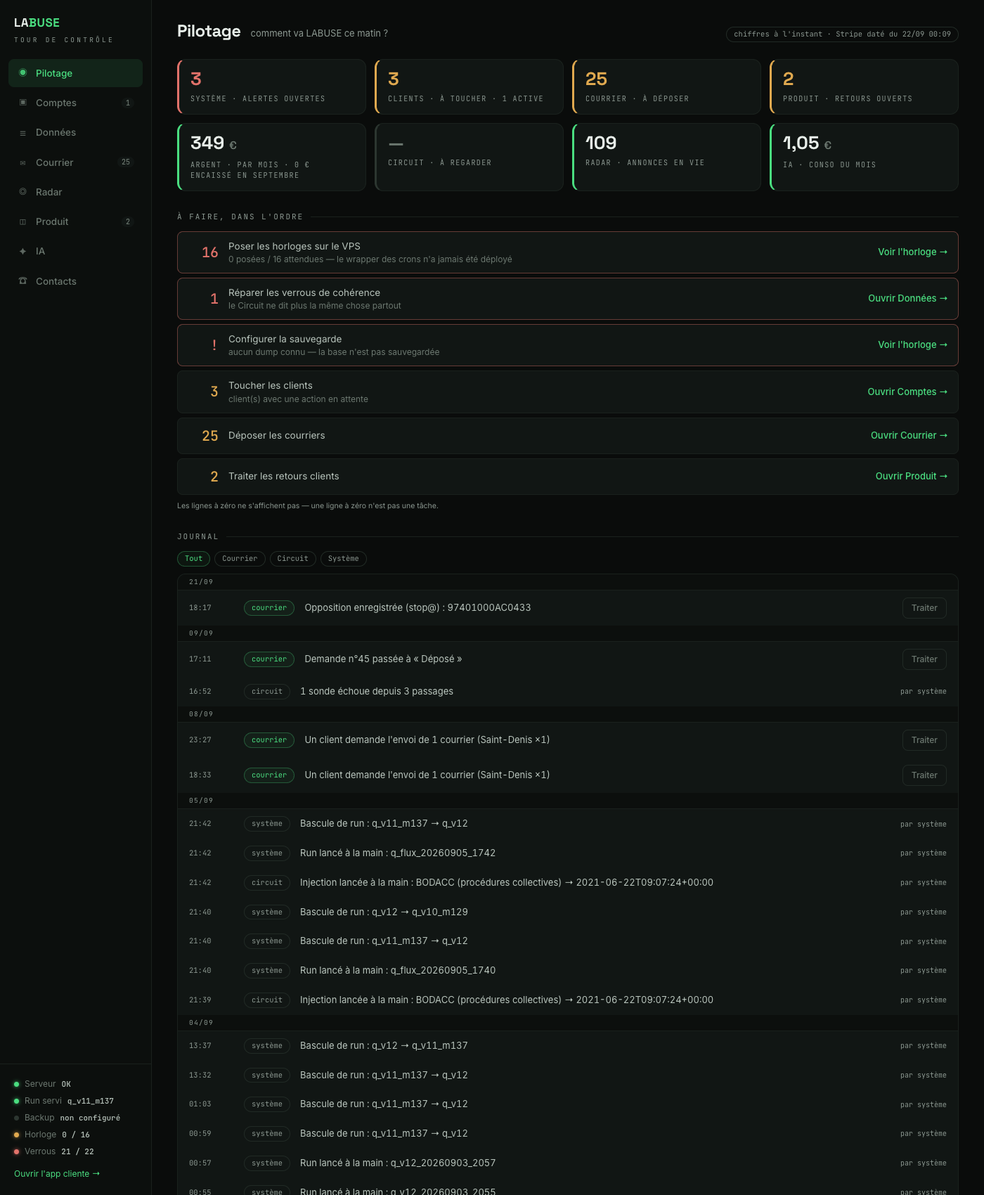
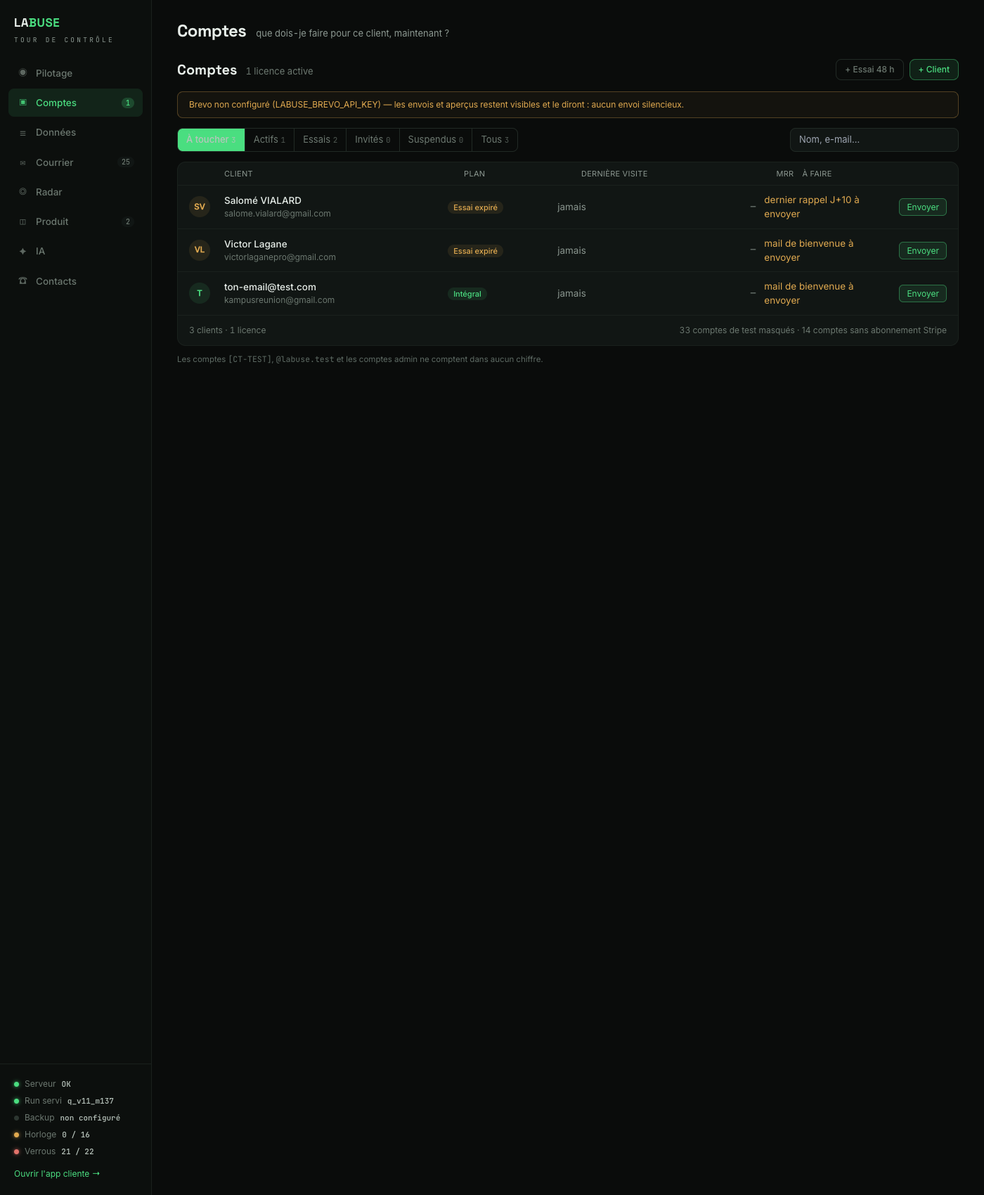
DASHBOARD-4 Lot 5 — Comptes : deux entrées, page créer, 5 statuts, essai, fiche
K1 : deux entrées en haut à droite — « Ouvrir un essai 48 h » · « Créer un client »
— de VRAIES pages (plus d'accordéon, plus de lien brut affiché).
K2 : « Créer un client » = e-mail + prénom + nom · « Créer et envoyer l'invitation »
(principal, envoi Brevo souscription=5 / essai=4 par la file — dry-run en local,
mail_log) · « créer sans envoyer » (lien). LES DEUX arrivent sur la fiche du client.
K3 : cinq statuts (Invité · Invitation envoyée · Actif · Suspendu · Expiré) dans la
colonne Statut ; « payant / essai » est une COLONNE À PART lue de Stripe (carte
refusée incluse). Segments sur une ligne ; « À toucher » (défaut) = estAToucher
(invitation sans réponse > 7 j · essai < 6 h · carte refusée) — MÊME fonction que la
liste « À faire » du Pilotage (une seule définition, AdminView la lit aussi).
K4 : essai 48 h — même chemin, expire seul, décompte sur la fiche, bouton
« Transformer en client » (convertir).
K5 : fiche client = fil d'Ariane (Comptes › nom), quatre onglets (Aperçu · Activité ·
Facturation · IA), gestes EN HAUT À DROITE (Renvoyer l'invitation · Suspendre /
Rétablir · Transformer), faits + phrase CALCULÉE sous les faits (« paie depuis N
jours, actif … » / « n'est jamais entré dans l'app »). Tous les gestes partent d'ici.
K6 : comptes de test masqués partout (33 masqués, hors de tout chiffre) ;
ton-email@test.com est EXCLU du service /admin/licences (jamais servi, jamais
touché) — signalé ici et dans le rapport ; garde front défensive si jamais servi.
[…]

diff --git a/frontend/src/components/admin/Licences.tsx b/frontend/src/components/admin/Licences.tsx
@@ -8,8 +8,8 @@ import { useMutation, useQuery, useQueryClient } from '@tanstack/react-query'
 import { useMemo, useState } from 'react'
 import {
   getAdminLicences, getAdminMailApercu, getAdminMails, getOffres, postAdminLicenceCreer,
-  postAdminLicenceCreerEssai, postAdminLicenceMail, postAdminRetablir, postAdminSuspendre,
-  postAdminDeconnecter, type AdminLicence, type AdminLicences, type MailLigne,
+  postAdminLicenceCreerEssai, postAdminLicenceConvertir, postAdminLicenceMail, postAdminRetablir,
+  postAdminSuspendre, postAdminDeconnecter, type AdminLicence, type AdminLicences, type MailLigne,
 } from '../../lib/api'
 import { ActBtn } from './AdminView'
 
@@ -114,15 +114,76 @@ function verbe(act: Action | null): string {
   return 'Envoyer'
 }
 
-// chip de plan / état servi dans la ligne.
-function PlanChip({ l }: { l: AdminLicence }) {
-  const p = pastille(l)
-  if (p === 'carte') return <span className="rounded-full bg-coral/10 px-2 py-0.5 text-[11px] font-medium text-coral">Carte refusée</span>
-  if (p === 'essai') return <span className="rounded-full bg-amber/10 px-2 py-0.5 text-[11px] font-medium text-amber">Essai{essaiHeuresRestantes(l) != null && essaiHeuresRestantes(l)! <= 0 ? ' expiré' : ''}</span>
-  if (p === 'invite') return <span className="rounded-full bg-white/5 px-2 py-0.5 text-[11px] font-medium text-txt-dim">Invité</span>
-  if (p === 'susp') return <span className="rounded-full bg-coral/10 px-2 py-0.5 text-[11px] font-medium text-coral">Suspendu</span>
-  return <span className="rounded-full bg-mint/10 px-2 py-0.5 text-[11px] font-medium text-mint">Intégral</span>
+// ── DASHBOARD-4 (K3) — CINQ statuts (Invité · Invitation envoyée · Actif · Suspendu · Expiré) ;
+//    « payant / essai » est une COLONNE À PART, lue de Stripe (jamais mélangée au statut). ──
+type Statut5 = 'invite' | 'invitation_envoyee' | 'actif' | 'suspendu' | 'expire'
+function statut5(l: AdminLicence): Statut5 {
+  const h = essaiHeuresRestantes(l)
+  const essaiExpire = l.essai_expire_at != null && h != null && h <= 0
+  if (l.statut === 'suspendu') return essaiExpire ? 'expire' : 'suspendu'
+  if (essaiExpire) return 'expire'
+  if (l.statut === 'invite') {
+    const invitationEnvoyee = l.mails['souscription']?.statut === 'envoye' || l.mails['onboarding1']?.statut === 'envoye'
+    return invitationEnvoyee ? 'invitation_envoyee' : 'invite'
+  }
+  return 'actif'
 }
+const STATUT5_LABEL: Record<Statut5, string> = {
+  invite: 'Invité', invitation_envoyee: 'Invitation envoyée', actif: 'Actif', suspendu: 'Suspendu', expire: 'Expiré',
+}
+const STATUT5_DOT: Record<Statut5, string> = {
+  invite: 'bg-txt-dim', invitation_envoyee: 'bg-amber', actif: 'bg-mint', suspendu: 'bg-coral', expire: 'bg-coral',
+}
+function StatutChip({ l }: { l: AdminLicence }) {
+  const s = statut5(l)
+  return <span className="inline-flex items-center gap-1.5 text-[12.5px] text-txt"><span className={`h-[8px] w-[8px] rounded-full ${STATUT5_DOT[s]}`} />{STATUT5_LABEL[s]}</span>
+}
+// « payant / essai » — colonne à part, lue de Stripe (carte refusée = état de paiement, pas un statut).
+function abonnement(l: AdminLicence): { label: string; cls: string } {
+  if (carteRefusee(l)) return { label: 'Carte refusée', cls: 'text-coral' }
+  if (l.stripe?.statut === 'active' || l.stripe?.statut === 'trialing') return { label: 'Payant', cls: 'text-mint' }
+  const h = essaiHeuresRestantes(l)
+  if (l.essai_expire_at != null && h != null && h > 0) return { label: `Essai · ${h} h`, cls: 'text-amber' }
+  if (l.essai_expire_at != null) return { label: 'Essai expiré', cls: 'text-coral' }
+  return { label: '—', cls: 'text-txt-dim' }
+}
+
+// DASHBOARD-4 (K3) — « À toucher » (segment par défaut ET jauge Pilotage, une seule fonction) :
+// invitation sans réponse > 7 j · essai qui se termine (< 6 h) · carte refusée.
+export function estAToucher(l: AdminLicence): boolean {
+  if (l.est_test) return false
+  if (carteRefusee(l)) return true
+  const abonne = l.stripe?.statut === 'active' || l.stripe?.statut === 'trialing'
+  const h = essaiHeuresRestantes(l)
+  if (l.essai_expire_at != null && !abonne && h != null && h > 0 && h < 6) return true   // essai < 6 h
+  if (l.statut === 'invite' && !l.kpi.derniere_connexion && l.created_at) {              // invitation sans réponse > 7 j
+    const ageJ = (Date.now() - new Date(l.created_at).getTime()) / 86_400_000
+    if (ageJ > 7) return true
+  }
+  return false
+}
+
+// DASHBOARD-4 (K5) — phrase CALCULÉE sous les faits (« paie depuis 7 jours, connecté 4 fois » /
+// « n'est jamais entré dans l'app »).
+function phraseCalculee(l: AdminLicence): string {
+  if (!l.kpi.derniere_connexion) return "Ce client n'est jamais entré dans l'app."
+  const parts: string[] = []
+  const abonne = l.stripe?.statut === 'active' || l.stripe?.statut === 'trialing'
+  if (abonne && l.stripe?.depuis) {
+    const j = Math.max(0, Math.floor((Date.now() / 1000 - l.stripe.depuis) / 86_400))
+    parts.push(`paie depuis ${j} jour${j > 1 ? 's' : ''}`)
+  } else if (l.essai_expire_at) {
+    const h = essaiHeuresRestantes(l)
+    parts.push(h != null && h > 0 ? `en essai (encore ${h} h)` : 'essai terminé')
+  }
+  const min = l.kpi.usage_7j_min
+  if (min > 0) parts.push(`actif ${fmtDuree(min)} sur 7 jours`)
+  else parts.push('connecté au moins une fois')
+  return parts.length ? parts.join(', ').replace(/^./, (c) => c.toUpperCase()) + '.' : 'Compte actif.'
+}
+
+// DASHBOARD-4 (K3) — l'ancien PlanChip (plan/état mélangés) est remplacé par StatutChip (5 statuts)
+// + la colonne Abonnement séparée (abonnement()), lue de Stripe.
 
 // ── panneau APERÇU : template Brevo rendu avec les variables du compte, ou raison honnête ──
 function ApercuOverlay({ compteId, mk, onClose }: { compteId: number; mk: string; onClose: () => void }) {
@@ -155,39 +216,61 @@ function ApercuOverlay({ compteId, mk, onClose }: { compteId: number; mk: string
   )
 }
 
-// ── barre de création (Créer NE POSTE AUCUN MAIL) — repliée derrière « + Client » / « + Essai 48 h » ──
-function NewBar({ mode, onDone }: { mode: 'client' | 'essai'; onDone: () => void }) {
+// ── DASHBOARD-4 (K1/K2) — VRAIE PAGE de création (plus d'accordéon, plus de lien brut affiché).
+//    E-mail + prénom + nom. Deux gestes : « Créer et envoyer l'invitation » (principal, envoi Brevo
+//    4/5 par la file — dry-run en local, mail_log) · « créer sans envoyer » (lien). LES DEUX arrivent
+//    sur la FICHE du client créé (onCree). ──
+function CreerPage({ mode, onBack, onCree }: {
+  mode: 'client' | 'essai'; onBack: () => void; onCree: (compteId: number) => void
+}) {
   const qc = useQueryClient()
   const [email, setEmail] = useState('')
+  const [prenom, setPrenom] = useState('')
   const [nom, setNom] = useState('')
-  const [lien, setLien] = useState<string | null>(null)
   const [err, setErr] = useState<string | null>(null)
-  const ok = (r: { lien: string }) => { setLien(r.lien); setErr(null); setEmail(''); setNom(''); qc.invalidateQueries({ queryKey: ['admin-licences'] }) }
-  const ko = (e: unknown) => setErr(e instanceof Error ? e.message : 'Création impossible.')
-  const creer = useMutation({ mutationFn: () => postAdminLicenceCreer({ email: email.trim(), nom: nom.trim() || undefined }), onSuccess: ok, onError: ko })
-  const essai = useMutation({ mutationFn: () => postAdminLicenceCreerEssai({ email: email.trim(), nom: nom.trim() || undefined, heures: 48 }), onSuccess: ok, onError: ko })
-  const run = () => (mode === 'client' ? creer : essai).mutate()
-  const inp = 'rounded-md border border-line-2 bg-bg px-2.5 py-2 text-[13px] text-txt outline-none focus:border-mint'
+  const [busy, setBusy] = useState(false)
+  // le template d'invitation : souscription (Brevo 5) pour un client, essai (Brevo 4) pour un essai.
+  const mailKey = mode === 'client' ? 'souscription' : 'essai'
+  const nomComplet = [prenom.trim(), nom.trim()].filter(Boolean).join(' ') || undefined
+  const lancer = async (envoyer: boolean) => {
+    setBusy(true); setErr(null)
+    try {
+      const r = mode === 'client'
+        ? await postAdminLicenceCreer({ email: email.trim(), nom: nomComplet })
+        : await postAdminLicenceCreerEssai({ email: email.trim(), nom: nomComplet, heures: 48 })
+      if (envoyer) { try { await postAdminLicenceMail(r.compte_id, mailKey) } catch { /* la file dira l'échec sur la fiche */ } }
+      qc.invalidateQueries({ queryKey: ['admin-licences'] })
+      onCree(r.compte_id)   // K2 — les deux gestes arrivent sur la fiche
+    } catch (e) {
+      setErr(e instanceof Error ? e.message : 'Création impossible.')
+    } finally { setBusy(false) }
+  }
+  const inp = 'w-full rounded-md border border-line-2 bg-bg px-3 py-2.5 text-[13.5px] text-txt outline-none focus:border-mint'
+  const titre = mode === 'client' ? 'Créer un client' : 'Ouvrir un essai 48 h'
   return (
-    <div className="mb-4 rounded-xl border border-line bg-surface-2 px-3 py-2.5">
-      <div className="flex flex-wrap items-center gap-2">
-        <span className="text-[12.5px] text-txt-dim">{mode === 'client' ? 'Nouveau client :' : 'Nouvel essai 48 h :'}</span>
-        <input autoFocus value={email} onChange={(e) => setEmail(e.target.value)} placeholder="email@client.re" className={`${inp} w-56`} />
-        <input value={nom} onChange={(e) => setNom(e.target.value)} placeholder="Nom (option)" className={`${inp} w-40`} />
-        <ActBtn onClick={run} disabled={!email.includes('@') || creer.isPending || essai.isPending}>
-          {mode === 'client' ? "Créer & préparer l'invitation →" : "Créer l'essai 48 h →"}
-        </ActBtn>
-        <ActBtn tone="ghost" onClick={onDone}>Fermer</ActBtn>
-        <span className="text-[11.5px] text-txt-off">l'invitation ne part jamais seule — tu l'envoies depuis la fiche</span>
-      </div>
-      {lien && (
-        <div className="mt-2 flex items-center gap-2">
-          <span className="text-[11px] text-mint">Compte créé.</span>
-          <code className="max-w-[440px] truncate rounded bg-surface-1 px-2 py-1 font-mono text-[10.5px] text-mint">{lien}</code>
-          <ActBtn tone="ghost" onClick={() => navigator.clipboard?.writeText(lien)}>Copier le lien</ActBtn>
+    <div>
+      <button onClick={onBack} className="mb-3 text-[12.5px] text-txt-mut hover:text-txt">← Comptes</button>
+      <h1 className="mb-4 font-display text-xl font-semibold text-txt-hi">{titre}</h1>
+      <div className="max-w-[460px] rounded-xl border border-line bg-surface-2 p-6">
+        <label className="mb-1.5 block text-[12px] text-txt-dim">E-mail</label>
+        <input autoFocus type="email" value={email} onChange={(e) => setEmail(e.target.value)} placeholder="prenom@societe.re" className={inp} />
+        <label className="mb-1.5 mt-3.5 block text-[12px] text-txt-dim">Prénom</label>
+        <input value={prenom} onChange={(e) => setPrenom(e.target.value)} className={inp} />
+        <label className="mb-1.5 mt-3.5 block text-[12px] text-txt-dim">Nom</label>
+        <input value={nom} onChange={(e) => setNom(e.target.value)} className={inp} />
+        <div className="mt-5 flex items-center gap-4">
+          <ActBtn onClick={() => lancer(true)} disabled={!email.includes('@') || busy}>
+            {mode === 'client' ? "Créer et envoyer l'invitation" : "Créer l'essai et envoyer l'invitation"}
+          </ActBtn>
+          <button onClick={() => lancer(false)} disabled={!email.includes('@') || busy}
+            className="text-[13px] text-txt-mut underline underline-offset-2 hover:text-txt disabled:opacity-40">créer sans envoyer</button>
         </div>
-      )}
-      {err && <div className="mt-1 text-[11px] text-coral">{err}</div>}
+        {err && <div className="mt-3 text-[12px] text-coral">{err}</div>}
+        <div className="mt-4 text-[11px] text-txt-off">
+          En local (Brevo non configuré), l'envoi est un <b>dry-run</b> : l'invitation entre dans la file
+          (mail_log) sans partir — visible sur la fiche, onglet Activité.
+        </div>
+      </div>
     </div>
   )
 }
@@ -260,6 +343,8 @@ function FichePage({ l, libelles, stripeConfigure, onBack }: {
   })
   const susp = useMutation({ mutationFn: () => postAdminSuspendre(l.id), onSuccess: refresh })
   const retab = useMutation({ mutationFn: () => postAdminRetablir(l.id), onSuccess: refresh })
+  // DASHBOARD-4 (K4) — « Transformer en client » : lève l'essai, le compte paie par le parcours officiel.
+  const transformer = useMutation({ mutationFn: () => postAdminLicenceConvertir(l.id), onSuccess: (r) => { setMsg(r.detail); refresh() } })
   const deco = useMutation({
     mutationFn: () => postAdminDeconnecter(l.id),
     onSuccess: (r) => { setDecoMsg(`${r.sessions_fermees} session${r.sessions_fermees > 1 ? 's' : ''} fermée${r.sessions_fermees > 1 ? 's' : ''}`); refresh() },
@@ -277,19 +362,43 @@ function FichePage({ l, libelles, stripeConfigure, onBack }: {
   return (
     <div>
       {apercu && <ApercuOverlay compteId={l.id} mk={apercu} onClose={() => setApercu(null)} />}
-      <button onClick={onBack} className="mb-3 text-[12.5px] text-txt-mut hover:text-txt">← Comptes</button>
+      {/* DASHBOARD-4 (K5) — fil d'Ariane + gestes EN HAUT À DROITE (tous les gestes partent d'ici). */}
+      <div className="mb-2 text-[12.5px] text-txt-dim"><button onClick={onBack} className="hover:text-txt">Comptes</button> › {l.nom}</div>
       <div className="flex flex-wrap items-start justify-between gap-3">
         <div className="flex items-center gap-3">
           <span className={`grid h-10 w-10 place-items-center rounded-full text-[13px] font-semibold ${AV_CLS[pastille(l)]}`}>{initiales(l)}</span>
           <div>
             <h2 className="font-display text-lg font-semibold text-txt-hi">{l.nom}</h2>
-            <div className="text-[12.5px] text-txt-dim">{l.email} · créé le {fmtReu(l.created_at)}
-              {l.essai_expire_at && l.statut === 'actif' && <span className="ml-2 rounded-full bg-amber/10 px-2.5 py-0.5 text-[11px] font-semibold text-amber">ESSAI — {h != null && h > 0 ? `expire dans ${h} h` : 'expiré'}</span>}
+            <div className="flex items-center gap-2 text-[12.5px] text-txt-dim"><StatutChip l={l} /> · créé le {fmtReu(l.created_at)}
+              {l.essai_expire_at && l.statut === 'actif' && <span className="rounded-full bg-amber/10 px-2.5 py-0.5 text-[11px] font-semibold text-amber">ESSAI — {h != null && h > 0 ? `expire dans ${h} h` : 'expiré'}</span>}
             </div>
           </div>
         </div>
-        <PlanChip l={l} />
+        <div className="flex shrink-0 flex-wrap items-center gap-2">
+          {/* Renvoyer l'invitation (souscription) — utile tant que le client n'est pas entré. */}
+          {!l.kpi.derniere_connexion && (
+            <ActBtn tone="ghost" onClick={() => mail.mutate('souscription')} disabled={mail.isPending}>Renvoyer l'invitation</ActBtn>
+          )}
+          {/* Transformer en client (K4) — pour un essai en cours. */}
+          {l.essai_expire_at != null && l.statut === 'actif' && (
+            <ActBtn onClick={() => transformer.mutate()} disabled={transformer.isPending}>Transformer en client</ActBtn>
+          )}
+          {suspendu
+            ? <ActBtn onClick={() => retab.mutate()} disabled={retab.isPending}>Rétablir</ActBtn>
+            : <button onClick={suspendre} disabled={susp.isPending} className="rounded-lg border border-coral/40 px-3 py-1.5 text-xs font-medium text-coral disabled:opacity-40">Suspendre</button>}
+        </div>
       </div>
+
+      {/* DASHBOARD-4 (K5) — faits + phrase CALCULÉE sous les faits. */}
+      <div className="mt-3 grid gap-4 rounded-xl border border-line bg-surface-1 px-4 py-3 sm:grid-cols-[1fr_auto]">
+        <dl className="grid grid-cols-2 gap-x-6 gap-y-1.5 text-[12.5px]">
+          <div><dt className="text-txt-dim">E-mail</dt><dd className="font-mono text-txt">{l.email}</dd></div>
+          <div><dt className="text-txt-dim">Abonnement</dt><dd className={abonnement(l).cls}>{abonnement(l).label}</dd></div>
+          <div><dt className="text-txt-dim">Dernière connexion</dt><dd className="text-txt">{fmtReu(l.kpi.derniere_connexion, true)}</dd></div>
+          <div><dt className="text-txt-dim">Usage 7 j</dt><dd className="text-txt">{fmtDuree(l.kpi.usage_7j_min)}</dd></div>
+        </dl>
+      </div>
+      <p className="mt-2 border-t border-line pt-2 text-[13px] text-txt">{phraseCalculee(l)}</p>
 
       <div className="mt-4 mb-4 flex gap-1 border-b border-line">
         {TABS.map(([k, label]) => (
@@ -336,22 +445,10 @@ function FichePage({ l, libelles, stripeConfigure, onBack }: {
             when={abonne ? 'actif' : (stripeConfigure ? 'à souscrire' : 'Stripe non configuré')}
             mk={abonne ? undefined : 'souscription'} onApercu={setApercu} onSend={mail.mutate} sending={mail.isPending} />
 
-          <div className="mt-5 grid grid-cols-2 gap-2">
-            <div className="rounded-lg border border-line bg-surface-1 px-3 py-2">
-              <div className="font-display text-base font-bold text-txt-hi">{fmtDuree(l.kpi.usage_7j_min)}</div>
-              <div className="text-[10.5px] text-txt-dim">usage sur 7 j</div>
-            </div>
-            <div className="rounded-lg border border-line bg-surface-1 px-3 py-2">
-              <div className="font-display text-base font-bold text-txt-hi">{fmtReu(l.kpi.derniere_connexion, true)}</div>
-              <div className="text-[10.5px] text-txt-dim">dernière connexion</div>
-            </div>
-          </div>
-
+          {/* DASHBOARD-4 (K5) — suspension/transformation vivent EN HAUT À DROITE ; ici on garde le
+              rappel « manuelle » + la déconnexion à distance (geste rare, jamais dans le bandeau). */}
           <div className="mt-5 flex items-center justify-between gap-3 rounded-lg border border-line px-3 py-2.5 text-[12px] text-txt-dim">
-            <span>La suspension est toujours <b className="text-coral">manuelle</b> — jamais automatique sur un échec de carte.</span>
-            {suspendu
-              ? <ActBtn onClick={() => retab.mutate()} disabled={retab.isPending}>Rétablir l'accès</ActBtn>
-              : <button onClick={suspendre} disabled={susp.isPending} className="shrink-0 rounded-md border border-coral/40 px-2.5 py-1 text-[12px] text-coral disabled:opacity-40">Suspendre le compte</button>}
+            <span>La suspension est toujours <b className="text-coral">manuelle</b> — jamais automatique sur un échec de carte (le geste est en haut de la fiche).</span>
           </div>
           <div className="mt-2.5 flex items-center justify-between gap-3 rounded-lg border border-line px-3 py-2.5 text-[12px] text-txt-dim">
             <span>Déconnexion à distance — ferme toutes les sessions ouvertes du client (il pourra se reconnecter).{decoMsg && <b className="ml-2 text-mint">{decoMsg}</b>}</span>
@@ -446,9 +543,13 @@ export function LicencesSection() {
   const d: AdminLicences | undefined = q.data
 
   const clientes = useMemo(() => (d?.licences ?? []).filter((l) => !l.est_test), [d])
-  const aToucher = useMemo(() => clientes.filter((l) => prochaineAction(l) != null), [clientes])
+  // DASHBOARD-4 (K3) — « À toucher » = estAToucher (invitation sans réponse > 7 j · essai < 6 h · carte refusée).
+  const aToucher = useMemo(() => clientes.filter((l) => estAToucher(l)), [clientes])
 
   if (!d) return <div className="py-10 text-center text-xs text-txt-mut">Chargement…</div>
+
+  // DASHBOARD-4 (K1) — « Créer un client » / « Ouvrir un essai 48 h » sont de VRAIES pages.
+  if (creer) return <CreerPage mode={creer} onBack={() => setCreer(null)} onCree={(id) => { setCreer(null); setSel(id) }} />
   const prixIntegral = offres.data?.integral.eur_mois
   const libelles = d.mail_libelles ?? {}
   const masques = d.compteurs?.masques ?? d.licences.filter((l) => l.est_test).length
@@ -483,13 +584,12 @@ export function LicencesSection() {
           <h1 className="font-display text-xl font-semibold text-txt-hi">Comptes</h1>
           <span className="text-[13px] text-txt-mut">{actives} licence{actives > 1 ? 's' : ''} active{actives > 1 ? 's' : ''}{mrr > 0 && ` · ${mrr.toLocaleString('fr-FR')} € par mois`}</span>
         </div>
+        {/* DASHBOARD-4 (K1) — deux entrées en haut à droite, vraies pages (plus d'accordéon). */}
         <div className="flex gap-2">
-          <ActBtn tone="ghost" onClick={() => setCreer(creer === 'essai' ? null : 'essai')}>+ Essai 48 h</ActBtn>
-          <ActBtn onClick={() => setCreer(creer === 'client' ? null : 'client')}>+ Client</ActBtn>
+          <ActBtn tone="ghost" onClick={() => setCreer('essai')}>Ouvrir un essai 48 h</ActBtn>
+          <ActBtn onClick={() => setCreer('client')}>Créer un client</ActBtn>
         </div>
       </div>
-
-      {creer && <NewBar mode={creer} onDone={() => setCreer(null)} />}
 
       {!d.brevo.api && (
         <div className="mb-3.5 rounded-lg border border-amber/30 bg-amber/5 px-4 py-2.5 text-xs text-amber">
@@ -512,23 +612,25 @@ export function LicencesSection() {
       </div>
 
       <div className="overflow-hidden rounded-xl border border-line bg-surface-2">
-        <div className="grid grid-cols-[38px_1.7fr_0.8fr_0.9fr_0.6fr_1fr_auto] items-center gap-3 border-b border-line px-4 py-2 text-[11px] uppercase tracking-wide text-txt-dim">
-          <span /><span>Client</span><span>Plan</span><span>Dernière visite</span><span className="text-right">MRR</span><span>À faire</span><span />
+        {/* DASHBOARD-4 (K3) — colonne STATUT (5 statuts) + colonne ABONNEMENT séparée (payant/essai, Stripe). */}
+        <div className="grid grid-cols-[38px_1.7fr_1fr_0.9fr_0.9fr_1fr_auto] items-center gap-3 border-b border-line px-4 py-2 text-[11px] uppercase tracking-wide text-txt-dim">
+          <span /><span>Client</span><span>Statut</span><span>Dernière visite</span><span>Abonnement</span><span>À faire</span><span />
         </div>
         {lignes.map((l) => {
           const act = prochaineAction(l)
           const p = pastille(l)
+          const abo = abonnement(l)
           return (
             <button key={l.id} data-licence={l.id} onClick={() => setSel(l.id)}
-              className="grid w-full grid-cols-[38px_1.7fr_0.8fr_0.9fr_0.6fr_1fr_auto] items-center gap-3 border-b border-line px-4 py-2.5 text-left text-[13.5px] transition-colors duration-quick last:border-b-0 hover:bg-surface-1">
+              className="grid w-full grid-cols-[38px_1.7fr_1fr_0.9fr_0.9fr_1fr_auto] items-center gap-3 border-b border-line px-4 py-2.5 text-left text-[13.5px] transition-colors duration-quick last:border-b-0 hover:bg-surface-1">
               <span className={`grid h-[30px] w-[30px] place-items-center rounded-full text-[11.5px] font-semibold ${AV_CLS[p]}`}>{initiales(l)}</span>
               <span className="min-w-0">
                 <span className="block truncate font-medium text-txt-hi">{l.nom}</span>
-                <span className="block truncate text-[12px] text-txt-mut">{l.statut === 'invite' ? `invité — jamais activé` : l.email}</span>
+                <span className="block truncate text-[12px] text-txt-mut">{l.email}</span>
               </span>
-              <span><PlanChip l={l} /></span>
+              <span><StatutChip l={l} /></span>
               <span className={l.kpi.derniere_connexion ? 'text-txt-mut' : 'text-txt-dim'}>{fmtVisite(l.kpi.derniere_connexion)}</span>
-              <span className="text-right font-mono text-[12.5px] text-txt-mut">{l.stripe?.montant_eur_mois ? `${l.stripe.montant_eur_mois} €` : <span className="text-txt-dim">—</span>}</span>
+              <span className={`text-[12.5px] ${abo.cls}`}>{abo.label}</span>
               <span className={act ? (p === 'carte' ? 'text-coral' : 'text-amber') : 'text-txt-dim'}>{act ? act.court : '—'}</span>
               <span>{act ? <span className="rounded-md border border-mint/40 bg-mint/10 px-2.5 py-1 text-[12px] text-mint">{verbe(act)}</span> : ''}</span>
             </button>
@@ -546,6 +648,11 @@ export function LicencesSection() {
       </div>
       <div className="mt-2.5 text-[11.5px] text-txt-off">
         Les comptes <span className="font-mono">[CT-TEST]</span>, <span className="font-mono">@labuse.test</span> et les comptes admin ne comptent dans aucun chiffre.{prixIntegral ? '' : ''}
+        {/* DASHBOARD-4 (K6) — ton-email@test.com est masqué comme les autres tests ; on le SIGNALE
+            (compte réel de démo) et on n'y touche jamais. */}
+        {(d.licences ?? []).some((l) => (l.email ?? '').toLowerCase().includes('ton-email@test.com')) && (
+          <span className="ml-1 text-jaune"> <span className="font-mono">ton-email@test.com</span> est présent et masqué — ne pas y toucher (compte de démo signalé).</span>
+        )}
       </div>
     </>
   )

diff --git a/frontend/src/components/admin/AdminView.tsx b/frontend/src/components/admin/AdminView.tsx
@@ -7,7 +7,7 @@ import { useQuery, useQueryClient } from '@tanstack/react-query'
 import { useEffect, useState } from 'react'
 import { getAdminCircuit, getAdminLicences, getAdminPilotage, getMoi, postAdminDegeler, type AdminPilotage } from '../../lib/api'
 import { useApp } from '../../store/useApp'
-import { LicencesSection, prochaineAction } from './Licences'
+import { LicencesSection, estAToucher } from './Licences'
 import { IaSection } from './Ia'
 import { DonneesSection } from './Donnees'
 import { ProduitSection } from './Produit'
@@ -244,7 +244,8 @@ function PilotageSection({ data, go, majAt }: { data: AdminPilotage | undefined;
   const verrousCasses = data.verrous && data.verrous.ok != null && data.verrous.sur != null ? data.verrous.sur - data.verrous.ok : 0
   const circuitRouge = verrousCasses > 0 || (resume?.groupes ?? []).some((g) => (g.lignes ?? []).some((l) => l.couleur === 'rouge'))
 
-  const aToucher = (licencesQ.data?.licences ?? []).filter((l) => !l.est_test && prochaineAction(l) != null).length
+  // DASHBOARD-4 (K3) — MÊME fonction que le segment « À toucher » de Comptes (une seule définition).
+  const aToucher = (licencesQ.data?.licences ?? []).filter((l) => estAToucher(l)).length
 
   // ── cinq tuiles pleines et opaques, dans l'ordre de la maquette (P1) ──
   const tuiles: { cle: string; valeur: React.ReactNode; unite?: string; label: string; sous?: string; tone: TuileTone; cible: AdminSection }[] = [
